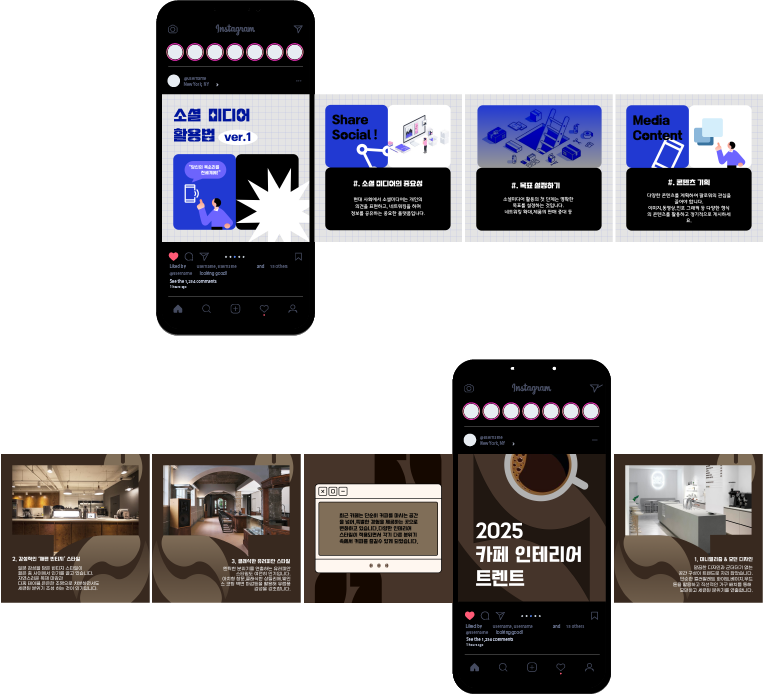
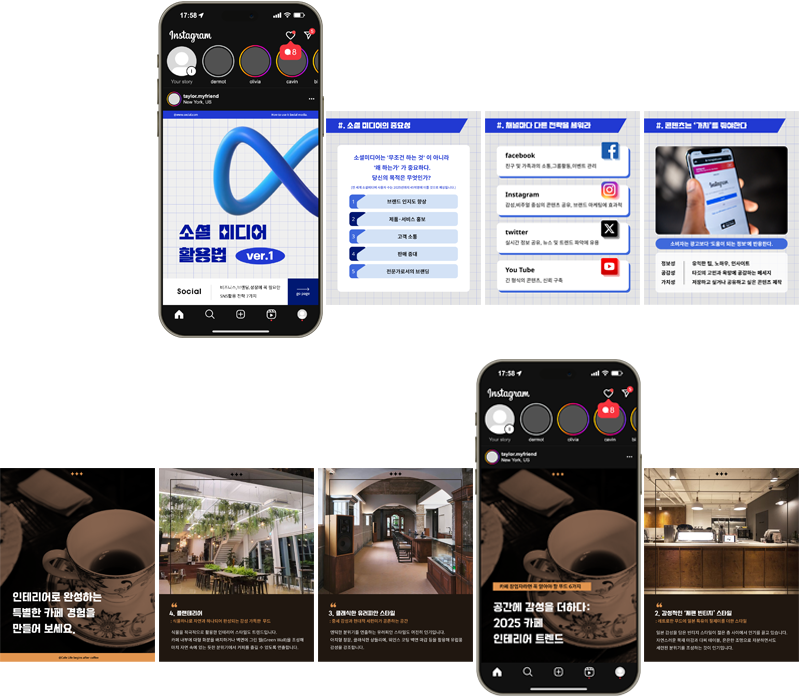
PM 2:18 (2025.04.24)

diff --git a/work/design/cardnews/scss/cardnews.scss b/work/design/cardnews/scss/cardnews.scss
@@ -70,6 +70,37 @@ main {
                 }
             }
         }
+
+        .page-img {
+            margin-top: 30px;
+            @include responsive(large-screens) {
+                display: flex;
+                justify-content: space-between;
+                
+            }
+            
+            img {
+                width: 100%; height: 100%;
+            
+                &:first-child {
+                    margin-bottom: 50px;
+
+                    @include responsive(large-screens) {
+                        width: 600px;
+                        margin-right: 20px;
+                    }
+                }
+                &:last-child {
+                    @include responsive(large-screens) {
+                        width: 600px;
+                    }
+                }
+                
+                @include responsive(large-screens) {
+                    width: 50%;
+                }
+            }
+        }
     }
     .more-btn {
         display: flex;

diff --git a/index.html b/index.html
@@ -199,7 +199,7 @@
                         <div class="intro">
                             <h3>DETAILED PAGE</h3>
                             <div class="pbox">
-                                <P>업체명: Aesop,TMB</P>
+                                <P>업체명: Aesop/TMB</P>
                                 <P>제작기간: 2025.2.17 - 2025.2.22</P>
                                 <P>프로그램: Photoshop,lllustrator</P>
                             </div>
@@ -310,7 +310,7 @@
                         <div class="intro">
                             <h3>CARD NEWS DESIGN</h3>
                             <div class="pbox">
-                                <P>2025 카페 트렌드,소셜 미디어 활용법</P>
+                                <P>2025 카페 트렌드/소셜 미디어 활용법</P>
                                 <P>제작기간: 2025.3.3 - 2025.3.7</P>
                                 <P>프로그램: Photoshop,Figma</P>
                             </div>

diff --git a/work/design/cardnews/css/cardnews.css b/work/design/cardnews/css/cardnews.css
@@ -90,6 +90,38 @@ main .flex-box .intro-txt .intro .pbox p:last-child br {
     display: none;
   }
 }
+main .flex-box .page-img {
+  margin-top: 30px;
+}
+@media (min-width: 1440px) {
+  main .flex-box .page-img {
+    display: flex;
+    justify-content: space-between;
+  }
+}
+main .flex-box .page-img img {
+  width: 100%;
+  height: 100%;
+}
+main .flex-box .page-img img:first-child {
+  margin-bottom: 50px;
+}
+@media (min-width: 1440px) {
+  main .flex-box .page-img img:first-child {
+    width: 600px;
+    margin-right: 20px;
+  }
+}
+@media (min-width: 1440px) {
+  main .flex-box .page-img img:last-child {
+    width: 600px;
+  }
+}
+@media (min-width: 1440px) {
+  main .flex-box .page-img img {
+    width: 50%;
+  }
+}
 main .more-btn {
   display: flex;
   align-items: center;

diff --git a/work/design/cardnews/cardnews.html b/work/design/cardnews/cardnews.html
@@ -55,7 +55,8 @@
                 </div> <!-- intro-txt -->
 
                 <div class="page-img">
-                    <img src="./images/app design_Proposal2.png" alt="리뉴얼페이지">
+                    <img src="./images/social_media.jpg" alt="소셜미디어 활용법">
+                    <img src="./images/cafe_interior.jpg" alt="2025카페 인테리어 트렌드">
                 </div>
             </div>
         </div>
